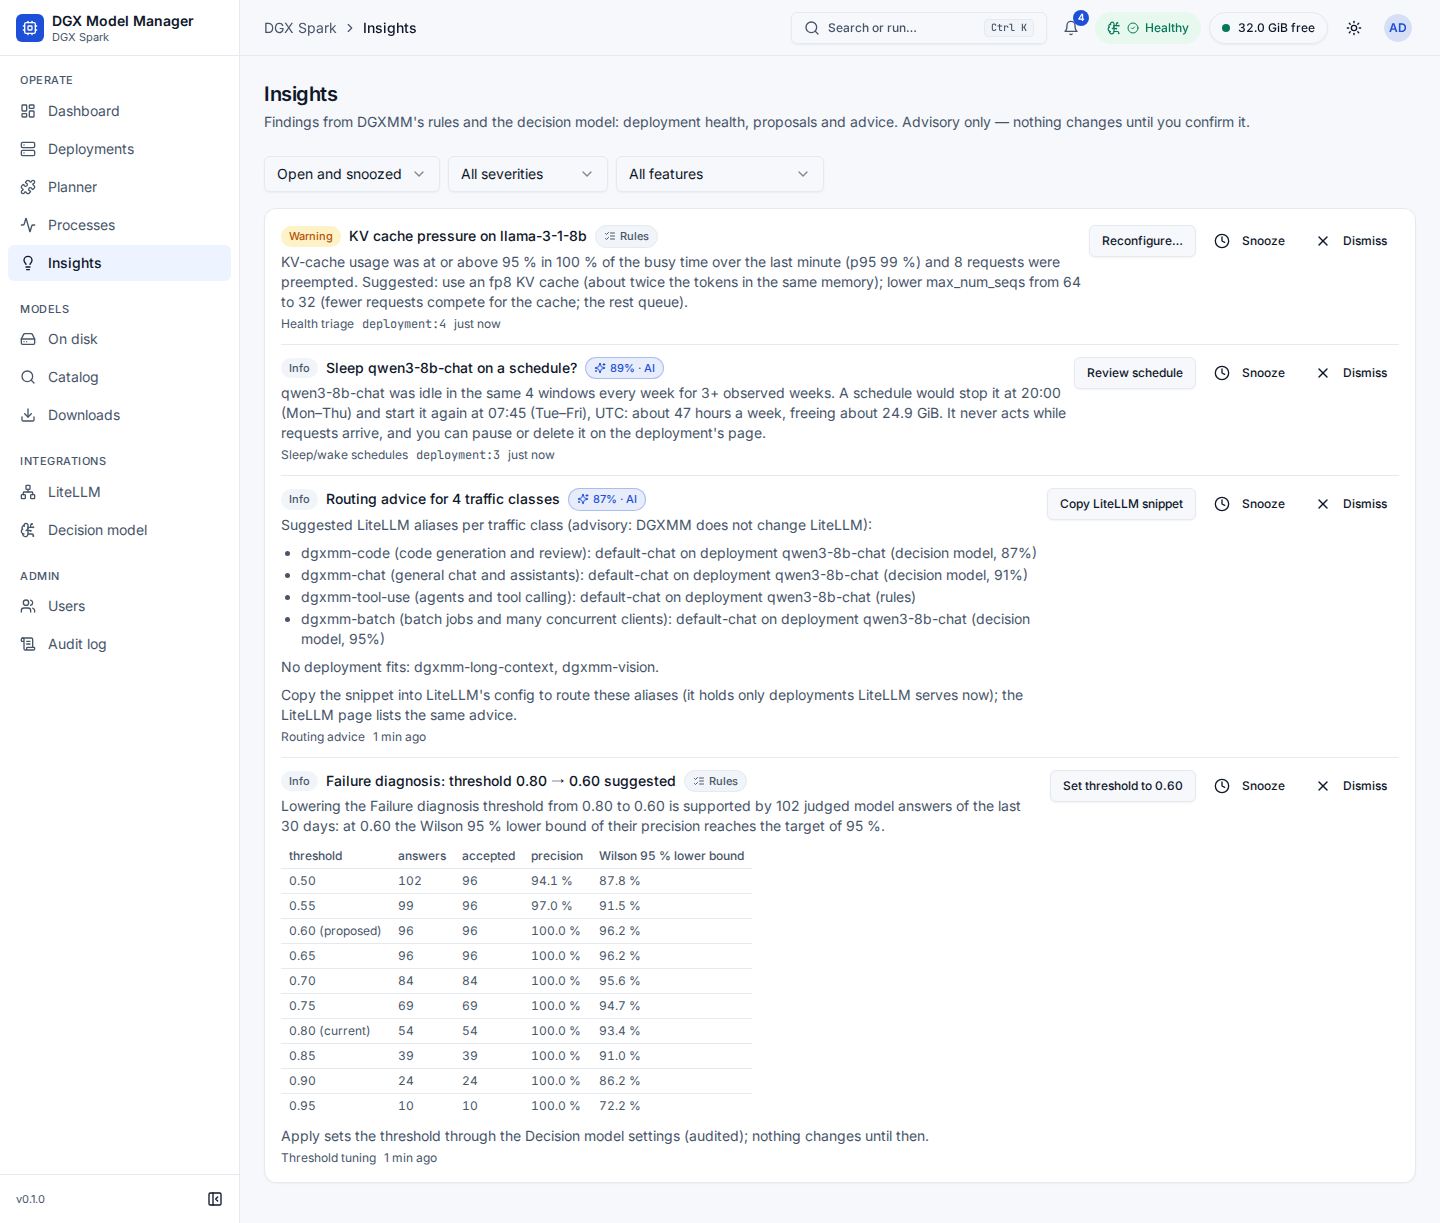
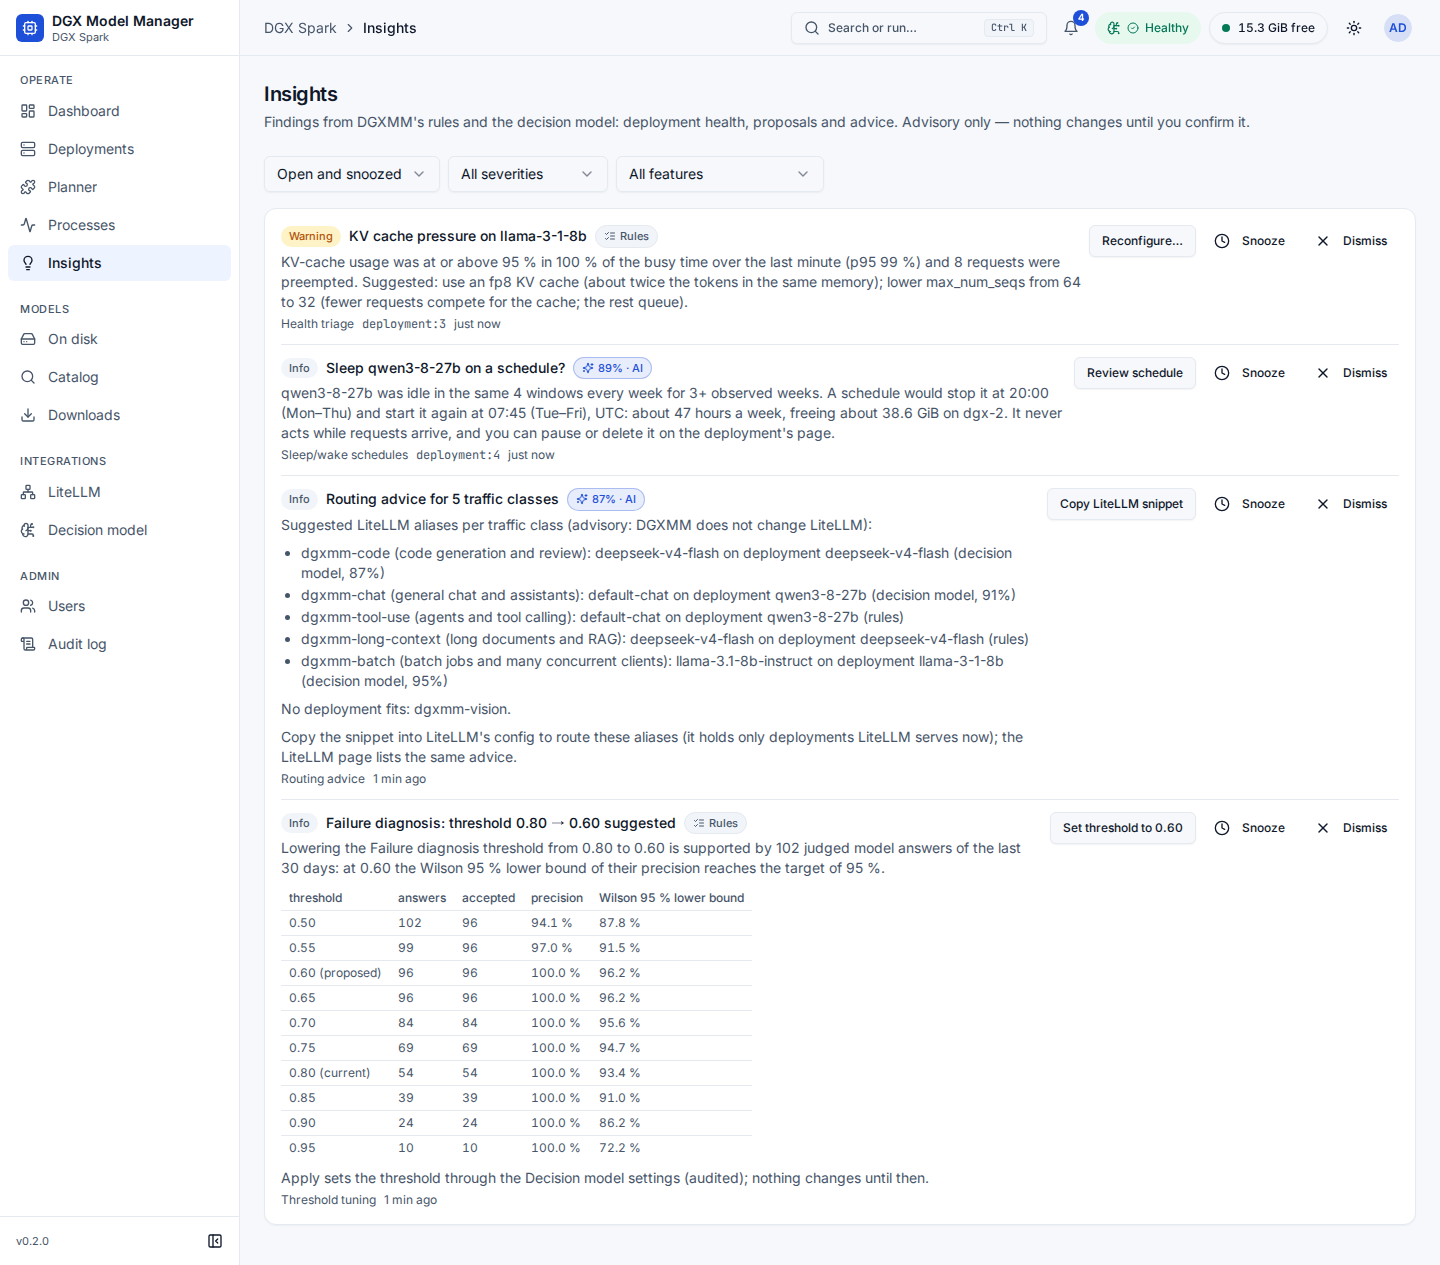
docs: screenshots for 0.2.0 (multi-node, on-demand)
Re-capture every screenshot against the two-node demo (the old ones showed 0.1.0 and a single node), and add
the multi-node screens: the deploy wizard's Where to run step, a cluster deployment with its ranks and
"Sleep (stops all nodes)", and the deployments list with Runs on. Embed them in deploying, deployments,
dashboard and the features table; update alt text where the screens changed. The wizard steps are listed in
the order the UI shows them (Sizing and features before Where to run).

diff --git a/docs/getting-started/features.md b/docs/getting-started/features.md
@@ -120,8 +120,8 @@ The screenshots show a demo instance with made-up data.
 
 | | |
 |---|---|
-| ![Insights page with a health finding, a schedule proposal, routing advice and a threshold proposal](../images/insights-light.png#only-light) ![Insights page with a health finding, a schedule proposal, routing advice and a threshold proposal](../images/insights-dark.png#only-dark) | ![Deploy wizard with a suggested config, the engine suggestion, parser suggestions and a suggested draft model](../images/deploy-wizard-light.png#only-light) ![Deploy wizard with a suggested config, the engine suggestion, parser suggestions and a suggested draft model](../images/deploy-wizard-dark.png#only-dark) |
-| Insights: health, schedule proposal, routing advice, threshold tuning | Deploy wizard: suggested config, engine, parsers, draft model |
+| ![Insights page with a health finding, a schedule proposal, routing advice and a threshold proposal](../images/insights-light.png#only-light) ![Insights page with a health finding, a schedule proposal, routing advice and a threshold proposal](../images/insights-dark.png#only-dark) | ![Deploy wizard with the mode, a suggested config, the engine suggestion, parser suggestions, a suggested draft model and Where to run](../images/deploy-wizard-light.png#only-light) ![Deploy wizard with the mode, a suggested config, the engine suggestion, parser suggestions, a suggested draft model and Where to run](../images/deploy-wizard-dark.png#only-dark) |
+| Insights: health, schedule proposal, routing advice, threshold tuning | Deploy wizard: mode, suggested config, engine, parsers, draft model, where to run |
 | ![Deployment page with a KV-cache pressure insight, schedules and API access](../images/deployment-detail-light.png#only-light) ![Deployment page with a KV-cache pressure insight, schedules and API access](../images/deployment-detail-dark.png#only-dark) | ![Deployment with a schedule proposal and its Schedules card](../images/deployment-schedules-light.png#only-light) ![Deployment with a schedule proposal and its Schedules card](../images/deployment-schedules-dark.png#only-dark) |
 | A deployment with a health insight | Schedules on a deployment |
 | ![Decision model page with status, 16 feature switches and thresholds, and background jobs](../images/decision-model-light.png#only-light) ![Decision model page with status, 16 feature switches and thresholds, and background jobs](../images/decision-model-dark.png#only-dark) | ![Command palette interpreting a typed command](../images/command-ask-light.png#only-light) ![Command palette interpreting a typed command](../images/command-ask-dark.png#only-dark) |
@@ -132,6 +132,10 @@ The screenshots show a demo instance with made-up data.
 | LiteLLM: models, keys and routing advice | Plans when a model does not fit |
 | ![Models on disk with kinds, formats and sizes](../images/models-light.png#only-light) ![Models on disk with kinds, formats and sizes](../images/models-dark.png#only-dark) | ![Processes page grouped by container, with masked command lines](../images/processes-light.png#only-light) ![Processes page grouped by container, with masked command lines](../images/processes-dark.png#only-dark) |
 | Models on disk | Processes, grouped by container |
+| ![Where to run: each node too big for the model, the two-node cluster recommended](../images/deploy-placement-light.png#only-light) ![Where to run: each node too big for the model, the two-node cluster recommended](../images/deploy-placement-dark.png#only-dark) | ![Cluster deployment on dgx-1 + dgx-2 with its ranks and the Sleep (stops all nodes) action](../images/deployment-cluster-light.png#only-light) ![Cluster deployment on dgx-1 + dgx-2 with its ranks and the Sleep (stops all nodes) action](../images/deployment-cluster-dark.png#only-dark) |
+| Where to run: one DGX or a cluster | A cluster deployment and its ranks |
+| ![Deployments list with the Runs on column: dgx-1, dgx-2 and a dgx-1 + dgx-2 cluster, and an on-demand model asleep](../images/deployments-light.png#only-light) ![Deployments list with the Runs on column: dgx-1, dgx-2 and a dgx-1 + dgx-2 cluster, and an on-demand model asleep](../images/deployments-dark.png#only-dark) | ![Dashboard with unified memory per node for dgx-1 and dgx-2, KPI tiles and deployments](../images/dashboard-light.png#only-light) ![Dashboard with unified memory per node for dgx-1 and dgx-2, KPI tiles and deployments](../images/dashboard-dark.png#only-dark) |
+| Deployments and where each runs | Dashboard with two nodes |
 
 ## Next steps
 

diff --git a/docs/user-guide/deploying.md b/docs/user-guide/deploying.md
@@ -6,7 +6,7 @@ description: "The deploy wizard: memory check, plans when a model does not fit, 
 
 Open **Deploy model** (Dashboard, Deployments, or the command palette). It needs the admin role.
 
-![Deploy wizard with a suggested config for the goal, the engine suggestion, parser suggestions and a suggested draft model](../images/deploy-wizard-light.png#only-light) ![Deploy wizard with a suggested config for the goal, the engine suggestion, parser suggestions and a suggested draft model](../images/deploy-wizard-dark.png#only-dark)
+![Deploy wizard with the mode, a suggested config for the goal, the engine suggestion, parser suggestions, a suggested draft model and the Where to run step](../images/deploy-wizard-light.png#only-light) ![Deploy wizard with the mode, a suggested config for the goal, the engine suggestion, parser suggestions, a suggested draft model and the Where to run step](../images/deploy-wizard-dark.png#only-dark)
 
 1. **Model**: pick a complete, downloaded model. Only models an engine can serve are listed. The line
    below shows the architecture, quantization, weight size and maximum context.
@@ -22,7 +22,12 @@ Open **Deploy model** (Dashboard, Deployments, or the command palette). It needs
    on, with the hint *On demand needs LiteLLM (it starts models on requests that come through it)*. For
    on demand, **Idle minutes before sleeping** (1 to 1440) starts at the DGXMM default. See
    [on-demand models](on-demand.md).
-3. **Where to run** (when multiple nodes are configured): DGXMM shows placement options with their
+3. **Sizing and features**: the **Goal**, then context length, concurrent sequences, KV cache dtype, the
+   shared KV pool size, prefix caching, sleep mode, **Speculative decoding** and so on. Advanced options
+   include tool-call and reasoning parsers, trust_remote_code, the served model name, and allowlisted
+   extra flags. The suggestions in this step (suggested config, engine, parsers, draft model, code scan)
+   are described in [deploy-time advice](#deploy-time-advice).
+4. **Where to run** (when multiple nodes are configured): DGXMM shows placement options with their
    per-node memory need and whether each fits. Options are single nodes (dgx-1, dgx-2) and the cluster
    (dgx-1 + dgx-2). One is marked **Recommended**: the single node with the most free memory if the model
    fits on one node; otherwise the cluster if it fits there. The recommendation appears when you first open
@@ -31,11 +36,8 @@ Open **Deploy model** (Dashboard, Deployments, or the command palette). It needs
    of nodes). The memory check updates for your choice. When the model does not fit anywhere, no placement
    is recommended and deploy is refused until you make it fit. When only one node is configured (the default),
    this step is skipped and the implicit local node is used.
-4. **Sizing and features**: the **Goal**, then context length, concurrent sequences, KV cache dtype, the
-   shared KV pool size, prefix caching, sleep mode, **Speculative decoding** and so on. Advanced options
-   include tool-call and reasoning parsers, trust_remote_code, the served model name, and allowlisted
-   extra flags. The suggestions in this step (suggested config, engine, parsers, draft model, code scan)
-   are described in [deploy-time advice](#deploy-time-advice).
+
+   ![Where to run for DeepSeek-V4-Flash: dgx-1 and dgx-2 each too big for one DGX with the memory needed and free on each node, and the dgx-1 + dgx-2 cluster recommended](../images/deploy-placement-light.png#only-light) ![Where to run for DeepSeek-V4-Flash: dgx-1 and dgx-2 each too big for one DGX with the memory needed and free on each node, and the dgx-1 + dgx-2 cluster recommended](../images/deploy-placement-dark.png#only-dark)
 
 The **Memory check** panel updates as you type. It shows the estimate split into weights, KV cache,
 activations and runtime, the KV pool in tokens, the vLLM memory share it will be started with, and a

diff --git a/docs/user-guide/deployments.md b/docs/user-guide/deployments.md
@@ -32,7 +32,7 @@ Tabs:
   change them with **Save mode**, see [on-demand models](on-demand.md#choosing-and-changing-the-mode)),
   the **API access** card, memory (reserved, measured, estimate parts and
   confidence), and the full configuration. When multiple nodes are configured, **Runs on** shows
-  the placement: the node label (e.g. *DGX-1*) for single deployments, or *DGX-1 + DGX-2 (cluster)* for
+  the placement: the node label (e.g. *dgx-1*) for single deployments, or *dgx-1 + dgx-2 (cluster)* for
   clusters. API access shows how clients call this deployment: the single LiteLLM
   **Endpoint** (`…/v1`) and the **Model** name, each with a copy button, the LiteLLM status, and
   ready-to-copy `curl` and Python (OpenAI SDK) snippets that read the key from `LITELLM_API_KEY`. A
@@ -66,6 +66,20 @@ Tabs:
   when Docker reports an OOM kill or the log has the kernel OOM killer's line; otherwise it says *killed
   by SIGKILL* (for example `docker kill`, or a stop that timed out), and the memory estimate is not
   raised.
+
+## Cluster deployments
+
+![Cluster deployment deepseek-v4-flash on dgx-1 + dgx-2: the Sleep (stops all nodes) action, the Mode card and the Ranks card with the head on dgx-1 and the worker on dgx-2, both running](../images/deployment-cluster-light.png#only-light) ![Cluster deployment deepseek-v4-flash on dgx-1 + dgx-2: the Sleep (stops all nodes) action, the Mode card and the Ranks card with the head on dgx-1 and the worker on dgx-2, both running](../images/deployment-cluster-dark.png#only-dark)
+
+A deployment that runs on several nodes ([multi-node deployments](deploying.md#multi-node-deployments-and-cluster-limits))
+says *runs on dgx-1 + dgx-2 (cluster)* under its name. Its **Ranks** card lists one container per node: the rank,
+the node, its role (the **head** serves the API, **workers** run headless) and the rank container's state. Its
+Sleep reads **Sleep (stops all nodes)**: a cluster cannot sleep across nodes, so it stops every rank and frees
+the memory on each node, after a confirmation.
+
+The Deployments list has a **Runs on** column whenever more than one node is configured:
+
+![Deployments list with the Runs on column: deployments on dgx-1, on dgx-2 and one on dgx-1 + dgx-2 (cluster), and an on-demand model asleep](../images/deployments-light.png#only-light) ![Deployments list with the Runs on column: deployments on dgx-1, on dgx-2 and one on dgx-1 + dgx-2 (cluster), and an on-demand model asleep](../images/deployments-dark.png#only-dark)
 
 ## Sleep and wake
 

diff --git a/docs/user-guide/dashboard.md b/docs/user-guide/dashboard.md
@@ -4,7 +4,7 @@ description: "The DGXMM dashboard: free memory, the unified-memory bar, KPI tile
 
 # Dashboard
 
-![Dashboard in the dark theme: free memory, the unified-memory bar, KPI tiles and deployments](../images/dashboard-light.png#only-light) ![Dashboard in the dark theme: free memory, the unified-memory bar, KPI tiles and deployments](../images/dashboard-dark.png#only-dark)
+![Dashboard with two nodes: unified memory per node for dgx-1 and dgx-2, KPI tiles and the deployments with where each runs](../images/dashboard-light.png#only-light) ![Dashboard with two nodes: unified memory per node for dgx-1 and dgx-2, KPI tiles and the deployments with where each runs](../images/dashboard-dark.png#only-dark)
 
 - **Free for new deployments** is the headline number: memory a new model may use right now, after the
   safety margin and OS reserve, what running deployments have reserved, and what other processes use
@@ -12,9 +12,13 @@ description: "The DGXMM dashboard: free memory, the unified-memory bar, KPI tile
 - **Unified memory** bar: one segment per DGXMM deployment, external processes, safety margin + OS
   reserve, and free memory. It also shows GPU utilisation, temperature and free disk. **Table** shows the same numbers as
   a table.
+- With more than one node configured, **Unified memory per node** takes the place of both: one bar per node
+  (dgx-1, dgx-2) with its free memory, and **Deploy model** / **Plan combinations**. A cluster deployment's share
+  appears on each node it uses. A node without a recent memory reading is marked *Node unavailable*, with the
+  reason.
 - **KPI tiles**: total generation throughput, the worst time to first token (p50) among ready
   deployments, the highest KV-cache usage, and the request queue.
-- **Deployments** table with state, memory (measured / reserved), tok/s, KV usage, and the LiteLLM model
+- **Deployments** table with state, **Runs on** (with more than one node: the node, or e.g. *dgx-1 + dgx-2 (cluster)*), memory (measured / reserved), tok/s, KV usage, and the LiteLLM model
   name with its registration status. When a ready deployment is not registered (for example because
   LiteLLM is unreachable or another deployment holds the same model name), the status has a tooltip
   with the exact reason. A deployment waiting for its turn to start shows *Queued* with its position

diff --git a/docs/user-guide/command-palette.md b/docs/user-guide/command-palette.md
@@ -14,7 +14,7 @@ Press <kbd>⌘</kbd> <kbd>K</kbd> (macOS) or <kbd>Ctrl</kbd> <kbd>K</kbd> (elsew
 
 ## Ask: natural-language commands
 
-![Command palette interpreting "put the qwen chat model to sleep" as Sleep qwen3-8b-chat](../images/command-ask-light.png#only-light) ![Command palette interpreting "put the qwen chat model to sleep" as Sleep qwen3-8b-chat](../images/command-ask-dark.png#only-dark)
+![Command palette interpreting "put the qwen chat model to sleep" as Sleep qwen3-8-27b](../images/command-ask-light.png#only-light) ![Command palette interpreting "put the qwen chat model to sleep" as Sleep qwen3-8-27b](../images/command-ask-dark.png#only-dark)
 
 When what you type matches no palette entry, the palette offers **Interpret: <your text>**. Press
 <kbd>Enter</kbd> on it and DGXMM turns the text into an action and a target:

diff --git a/docs/index.md b/docs/index.md
@@ -12,8 +12,8 @@ containers, checks before every start that a model fits next to everything alrea
 all of them through one OpenAI-compatible LiteLLM endpoint with virtual keys. It runs as a single
 container and installs with one command.
 
-![DGXMM dashboard: free memory, the unified-memory bar, KPI tiles and deployments (demo data)](images/dashboard-light.png#only-light)
-![DGXMM dashboard: free memory, the unified-memory bar, KPI tiles and deployments (demo data)](images/dashboard-dark.png#only-dark)
+![DGXMM dashboard: unified memory per node for two DGX Sparks, KPI tiles and deployments (demo data)](images/dashboard-light.png#only-light)
+![DGXMM dashboard: unified memory per node for two DGX Sparks, KPI tiles and deployments (demo data)](images/dashboard-dark.png#only-dark)
 
 ## Key capabilities
 

diff --git a/README.md b/README.md
@@ -14,7 +14,7 @@ your confirmation. It runs as a single container and installs with one command.
 
 **Documentation: <https://nikghodki.github.io/dgxmodelmanager/>**
 
-![DGXMM dashboard: free memory, unified memory bar, KPI tiles and deployments (demo data)](docs/images/dashboard-light.png)
+![DGXMM dashboard: unified memory per node for two DGX Sparks, KPI tiles and deployments (demo data)](docs/images/dashboard-light.png)
 
 ## Highlights
 
